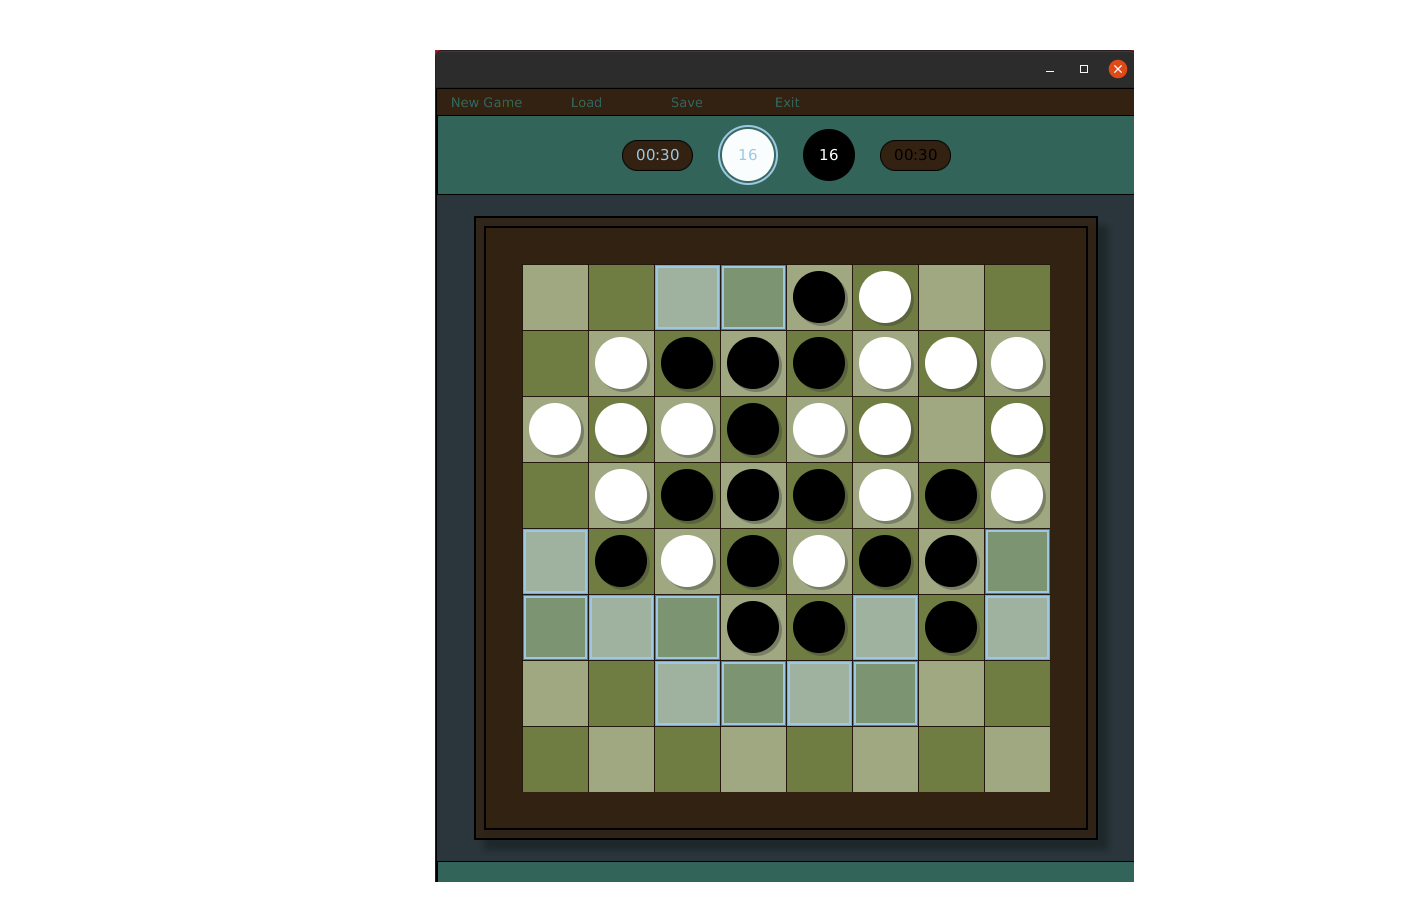
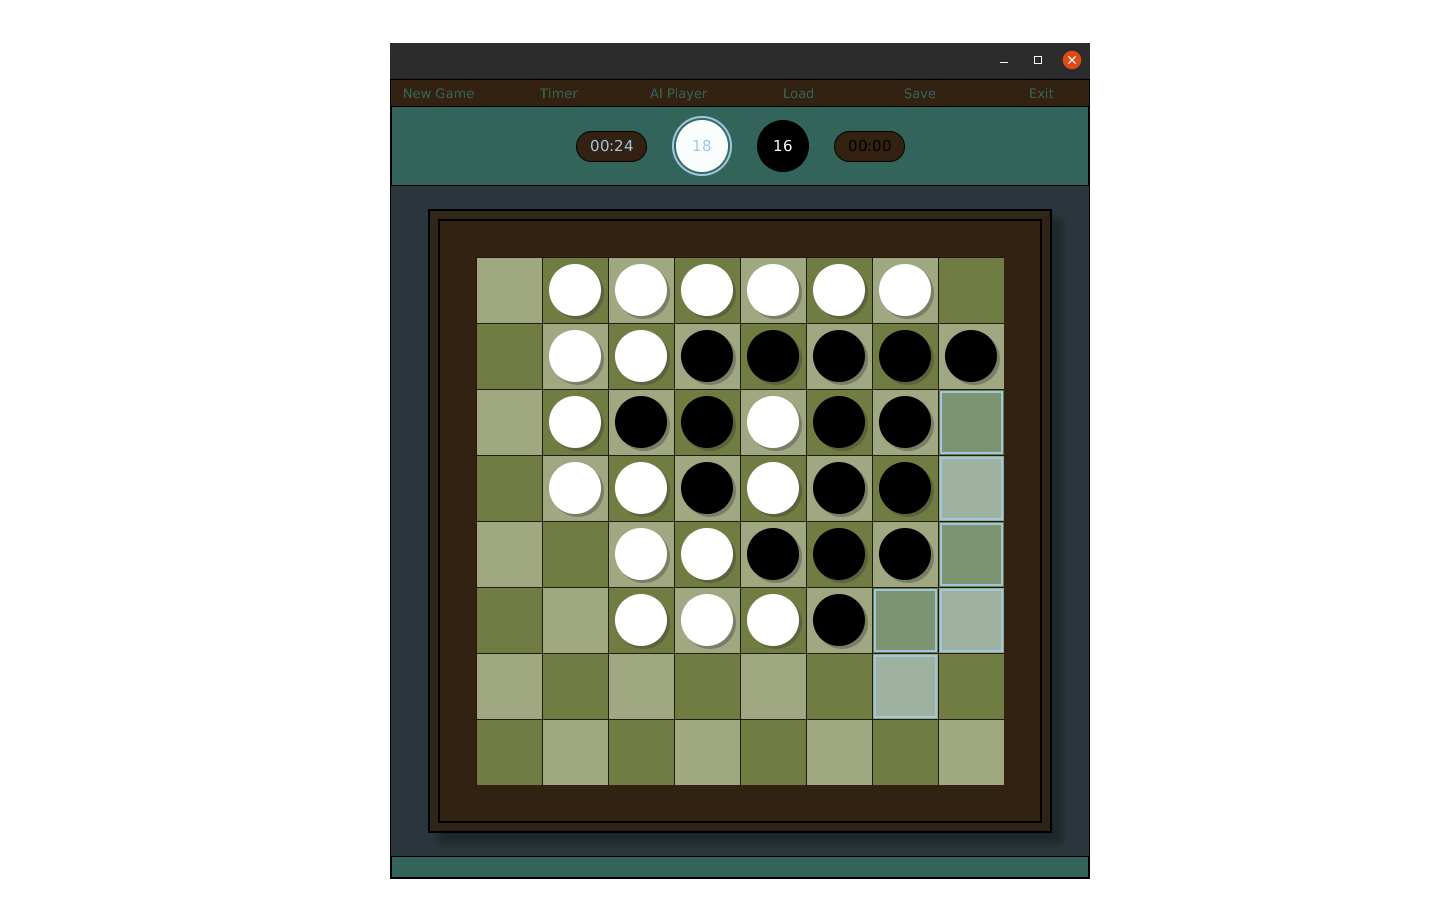
Update readme and preview image

diff --git a/README.md b/README.md
@@ -5,8 +5,12 @@
 ### Project assumptions:
 
  * Easy to use UI
- * Load/Save state of game
- * Multiplayer (2 player)
- * Timer
- * Game summary
  * MVC design pattern
+
+ ### Project features:
+ 
+ * Timed Game (one click/double click -> on/off)
+ * Load/Save state of game
+ * Game summary
+ * [TODO] AI Player module
+ 
